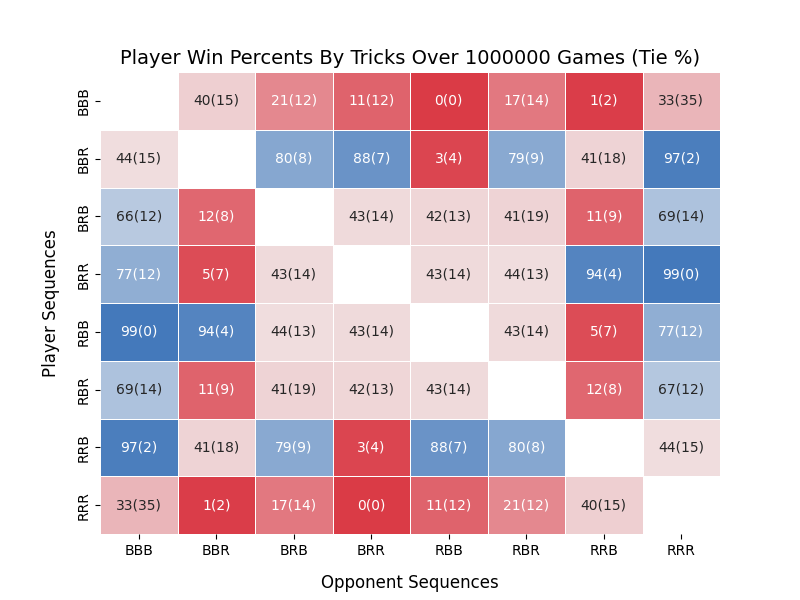
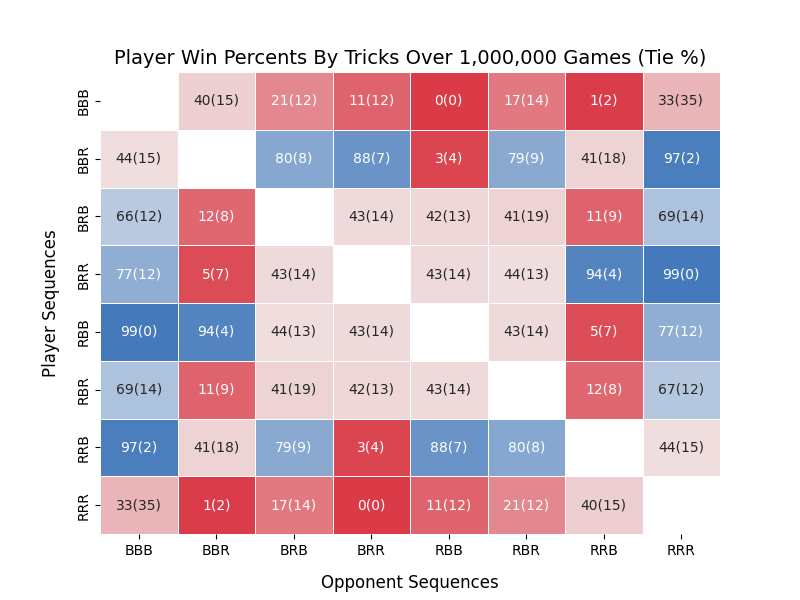
Add Commas FOr Big Numbers

Changed region(s): [[0.125, 0.06, 0.875, 0.12]]

diff --git a/src/visualizing.py b/src/visualizing.py
@@ -21,7 +21,7 @@ class Plotter:
         """
         self._plot_heatmap(
             self.trick_probs,
-            f"Player Win Percents By Tricks Over {self.sampleSize} Games (Tie %)",
+            f"Player Win Percents By Tricks Over {self.sampleSize:,} Games (Tie %)",
         )
 
     def plot_cards_won_probs(self) -> None:
@@ -30,7 +30,7 @@ class Plotter:
         """
         self._plot_heatmap(
             self.cards_probs,
-            f"Player Win Percents By Cards Over {self.sampleSize} Games (Tie %)",
+            f"Player Win Percents By Cards Over {self.sampleSize:,} Games (Tie %)",
         )
 
     def _plot_heatmap(self, df: pd.DataFrame, title: str) -> None:
